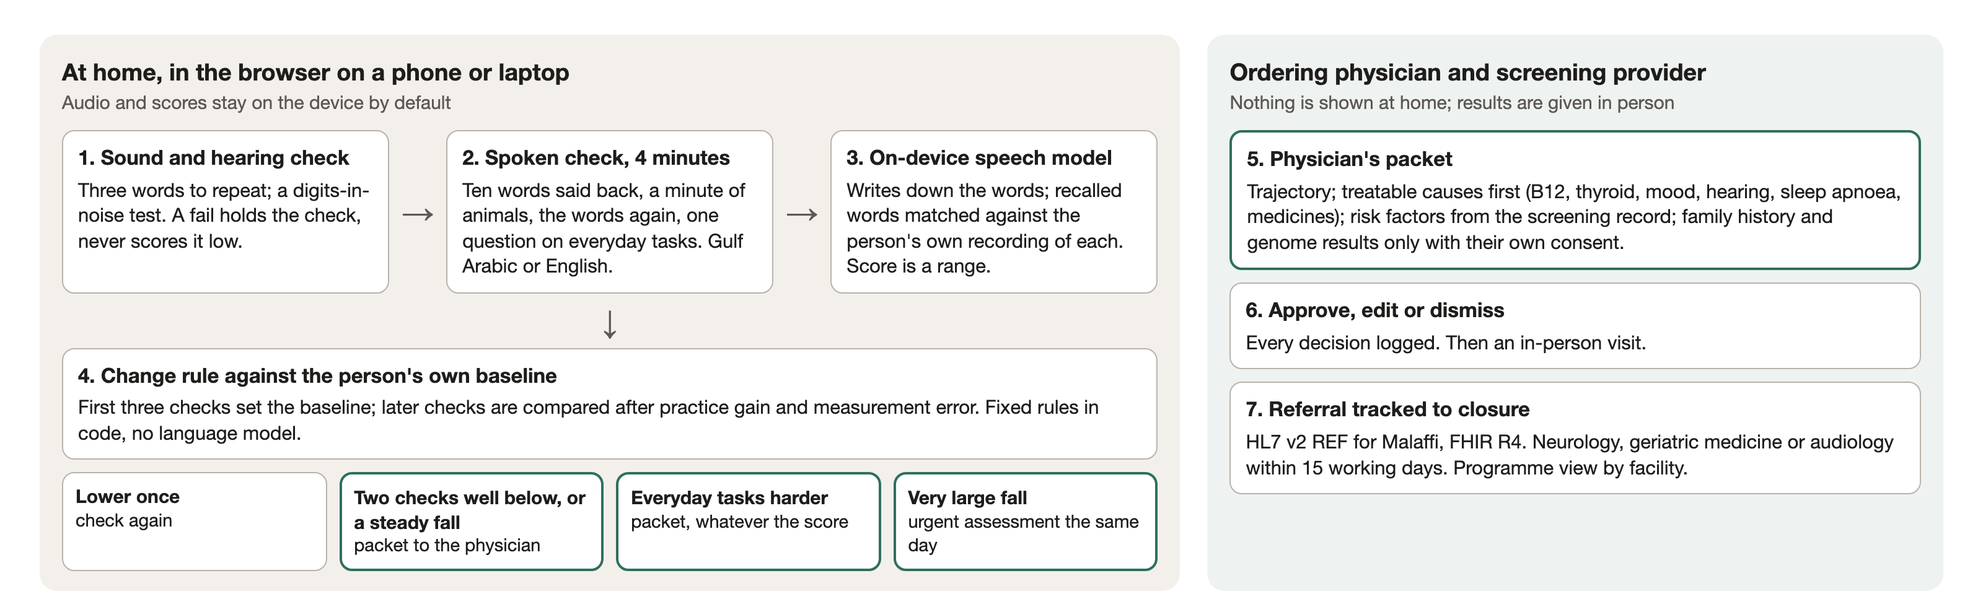
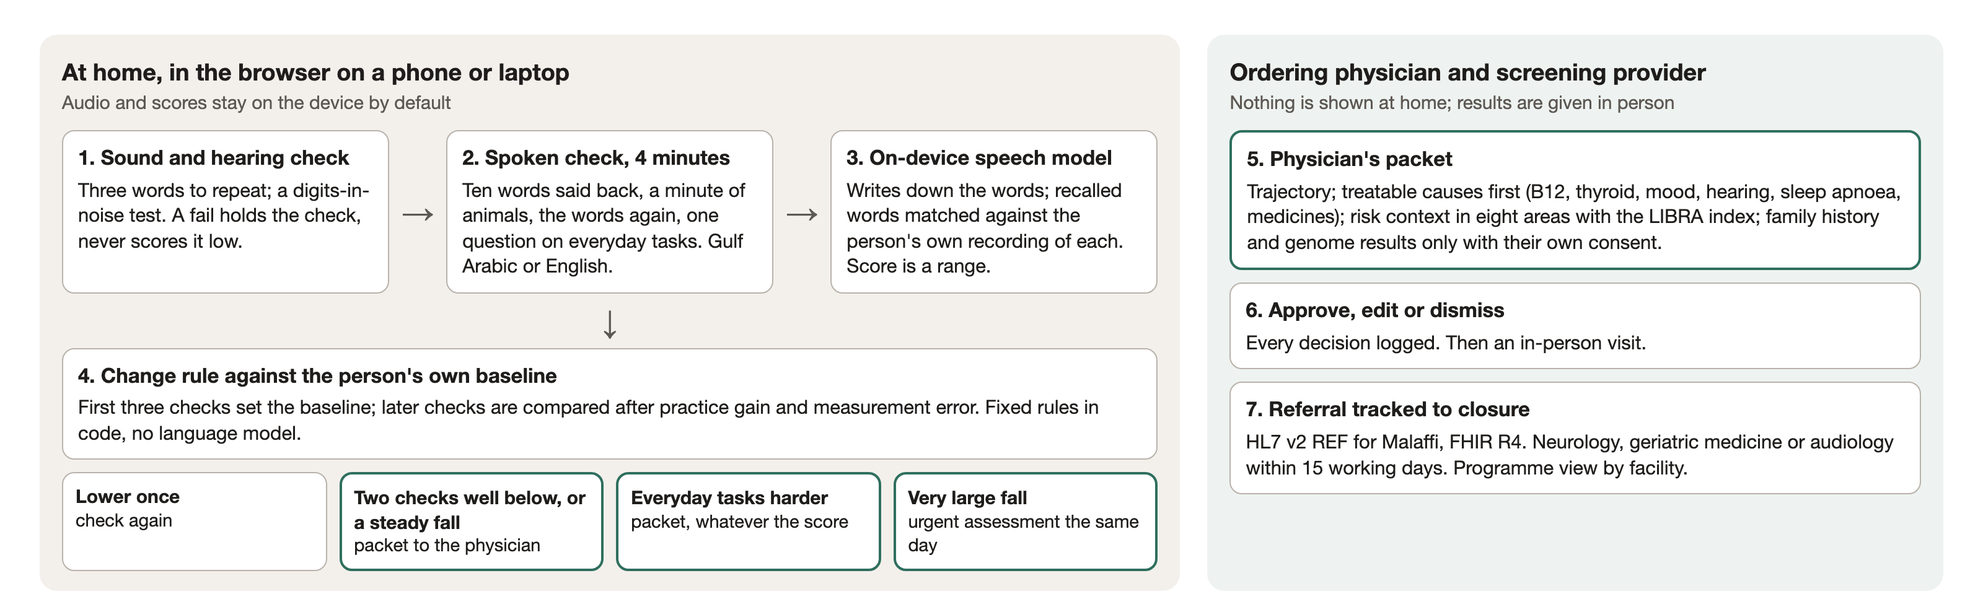
Risk context, LIBRA and UAE hosting in the README, judges' guide, form text and deck; tests for the RiskAssessment and the by-language run

Changed region(s): [[0.625, 0.334, 0.9375, 0.4251]]

diff --git a/src/pages/Home.tsx b/src/pages/Home.tsx
@@ -198,8 +198,8 @@ function Accordion() {
 const ITEMS: { t: string; d: string; gap?: string; to: string; see: string }[] = [
   { t: 'Culturally valid and accessible assessment', d: 'Spoken in Gulf Arabic or English, with nothing to read or type, so schooling and eyesight matter less. A hearing check comes first. A speech model on the device, phones included, writes down the words recalled and the animals named, and the check counts them.', gap: 'The Arabic word lists have no native Gulf reviewer yet.', to: '/try', see: 'Try it with your voice' },
   { t: 'Longitudinal change detection', d: 'Three checks set a personal baseline. Each later check is compared with it after practice and measurement error. A check\'s points are the words said back and recalled later, plus the animals named. About 7.6 below once means check again. Two checks averaging about 9.5 below, or a steady fall, go to a physician. A very large fall goes the same day.', to: '/year', see: 'A year of checks' },
-  { t: 'Integrated risk context', d: "With consent, the physician's packet shows ten of the fourteen Lancet risk factors from the screening record, such as blood pressure, HbA1c, mood and hearing, plus family history and APOE from the Emirati Genome Programme.", gap: 'The record has no sleep data. Each check asks about a bad night, and the packet raises sleep apnoea.', to: '/clinician', see: "The physician's packet" },
-  { t: 'Personalized prevention and timely care', d: "The person's own page lists, in plain words, what their screening visit shows they can work on. The packet puts treatable causes first, then refers to neurology, geriatric medicine or audiology on a 15-working-day clock.", to: '/me', see: 'What the person sees' },
+  { t: 'Integrated risk context', d: "The physician's packet reads the checks together with all eight areas the statement names: physical, metabolic, sleep, mental wellbeing, functional, lifestyle, family history and genome, each with its source and consent. A published index, LIBRA, weighs the modifiable factors from the screening record.", gap: 'Sleep comes from two questions at the first check, not a sleep study. LIBRA has not been checked in Emirati adults.', to: '/clinician', see: "The physician's packet" },
+  { t: 'Personalized prevention and timely care', d: "The person's own page lists, in plain words, what their screening visit shows they can work on, the heaviest-weighted first. The packet puts treatable causes first, then refers to neurology, geriatric medicine or audiology on a 15-working-day clock.", to: '/me', see: 'What the person sees' },
   { t: 'Safety and human oversight', d: 'It flags risk and never diagnoses. Scores are ranges with stated limits. At home the person sees only "Check received. Thank you.", and a physician approves every routine packet before anyone is told.', to: '/story', see: 'One case, both screens' },
   { t: 'Validation and local population performance', d: 'The Evidence page covers all seven measures the statement names, split by language, age and schooling, each marked measured, simulated or not yet.', gap: 'No patients or older Emirati volunteers yet. A pilot measures the rest.', to: '/benchmark', see: 'Evidence' },
 ]

diff --git a/src/pages/Clinician.tsx b/src/pages/Clinician.tsx
@@ -77,7 +77,7 @@ function Clinician({ id }: { id?: string }) {
       </nav>
       <p><strong>{person.name}</strong>, {person.record.sex === 'F' ? 'female' : 'male'}. Clinic MoCA at the screening visit: {person.record.mocaAtVisit}. Home checks since {person.checks[0].date}.</p>
       <div className="card" aria-label="Read together">
-        <p><strong>Read together.</strong> The checks show {finding}. {concernAreas.length} of the 8 risk areas show something to act on{concernAreas.length ? `: ${concernAreas.join(', ')}` : ''}. Modifiable risk (LIBRA): {lib.known} from the record{lib.ranked.length ? `, mostly ${lib.ranked.slice(0, 2).map((f) => f.name.toLowerCase()).join(' and ')}` : ''}. Check first: {contributors.map((c) => c.name[0].toLowerCase() + c.name.slice(1)).join(', ')}. Then decide on a specialist referral.</p>
+        <p><strong>Read together.</strong> The checks show {finding}. {concernAreas.length} of the 8 risk areas need attention{concernAreas.length ? `: ${concernAreas.join(', ')}` : ''}. Modifiable risk (LIBRA): {lib.known} from the record{lib.ranked.length ? `, mostly ${lib.ranked.slice(0, 2).map((f) => f.name.toLowerCase()).join(' and ')}` : ''}. Check first: {contributors.map((c) => c.name[0].toLowerCase() + c.name.slice(1)).join(', ')}. Then decide on a specialist referral.</p>
         <p className="muted">Risk context helps you read the change and plan prevention. It never raises or lowers the flag: the rule reads only the checks.</p>
       </div>
 
@@ -108,7 +108,7 @@ function Clinician({ id }: { id?: string }) {
       <p className="muted">The physical, metabolic, sleep, mental-wellbeing, functional, lifestyle, family-history and genomic areas Statement 8 names. Each row says where it came from and under which consent.</p>
       <div className="scroll" tabIndex={0} role="region" aria-label="Risk context in the eight areas"><table>
         <thead><tr><th>Area</th><th>For this person</th><th>Source</th><th>Shared under</th></tr></thead>
-        <tbody>{areas.map((a) => <tr key={a.area}><td><strong>{a.area}</strong>{a.concern ? <><br /><strong className="status-watch">to act on</strong></> : null}</td><td>{a.access === 'Not shared' ? <span className="muted">{a.finding}</span> : a.finding}</td><td className="muted">{a.source}</td><td className="muted">{a.access}</td></tr>)}</tbody>
+        <tbody>{areas.map((a) => <tr key={a.area}><td><strong>{a.area}</strong>{a.concern ? <><br /><strong className="status-watch">needs attention</strong></> : null}</td><td>{a.access === 'Not shared' ? <span className="muted">{a.finding}</span> : a.finding}</td><td className="muted">{a.source}</td><td className="muted">{a.access}</td></tr>)}</tbody>
       </table></div>
       <p className="muted">{context.map((c) => c.shared ? `${c.name}: ${c.note}` : '').filter(Boolean).join(' ')}</p>
 

diff --git a/src/engine/simulate.test.ts b/src/engine/simulate.test.ts
@@ -1,6 +1,6 @@
 import { describe, expect, it } from 'vitest'
 import { DEFAULT_PARAMS } from './change'
-import { BASE_WORLD, firstFlag, rng, simulatePerson, suddenDrops } from './simulate'
+import { BASE_WORLD, byLanguage, firstFlag, rng, simulatePerson, suddenDrops } from './simulate'
 import { bundle, checkObservation, referralRequest } from './fhir'
 
 const share = (n: number, f: (r: () => number) => boolean) => { const r = rng(7); let k = 0; for (let i = 0; i < n; i++) if (f(r)) k++; return k / n }
@@ -80,5 +80,20 @@ describe('FHIR output', () => {
   it('bundles a referral with its due date', () => {
     const b = bundle([referralRequest('Patient/1', 'Practitioner/9', '2026-08-31', '2026-09-21')]) as Record<string, any>
     expect(b.entry[0].resource.occurrencePeriod.end).toBe('2026-09-21')
+  })
+})
+
+describe('the flag by language, from measured listening', () => {
+  it('sets each listener\'s miss rate so that either one hears the measured share, and loses sensitivity as listening gets worse', () => {
+    const rows = byLanguage(400, [
+      { lang: 'perfect', heard: 1, heardLow: 1, words: 1, speakers: 1 },
+      { lang: 'poor', heard: 0.75, heardLow: 0.64, words: 1, speakers: 1 },
+    ])
+    expect(rows[0].central.miss).toBe(0)
+    expect(rows[1].central.miss).toBe(0.5)
+    expect(rows[1].pessimistic.miss).toBe(0.6)
+    expect(rows[1].central.detected['2']).toBeLessThan(rows[0].central.detected['2'])
+    expect(rows[1].pessimistic.detected['2']).toBeLessThanOrEqual(rows[1].central.detected['2'])
+    expect(rows[0].lang).toBe('perfect')
   })
 })

diff --git a/scripts/workflow-diagram.html b/scripts/workflow-diagram.html
@@ -51,7 +51,7 @@
   <section class="zone clinic">
     <h2>Ordering physician and screening provider</h2>
     <p class="sub">Nothing is shown at home; results are given in person</p>
-    <div class="box go"><b>5. Physician's packet</b>Trajectory; treatable causes first (B12, thyroid, mood, hearing, sleep apnoea, medicines); risk factors from the screening record; family history and genome results only with their own consent.</div>
+    <div class="box go"><b>5. Physician's packet</b>Trajectory; treatable causes first (B12, thyroid, mood, hearing, sleep apnoea, medicines); risk context in eight areas with the LIBRA index; family history and genome results only with their own consent.</div>
     <div class="box"><b>6. Approve, edit or dismiss</b>Every decision logged. Then an in-person visit.</div>
     <div class="box"><b>7. Referral tracked to closure</b>HL7 v2 REF for Malaffi, FHIR R4. Neurology, geriatric medicine or audiology within 15 working days. Programme view by facility.</div>
   </section>

diff --git a/src/engine/libra.test.ts b/src/engine/libra.test.ts
@@ -49,3 +49,18 @@ describe('LIBRA index from the screening record', () => {
     }
   })
 })
+
+describe('LIBRA as a FHIR RiskAssessment', () => {
+  it('states the score, the range and the factors, and no probability', async () => {
+    const { libraAssessment } = await import('./fhir')
+    const ra = libraAssessment('Patient/x', base, '2026-11-20')
+    expect(ra.resourceType).toBe('RiskAssessment')
+    expect(ra.prediction[0].qualitativeRisk.text).toContain('LIBRA 9.1 from 7 of 12 factors')
+    expect(ra.prediction[0].qualitativeRisk.text).toContain('between 3.2 and 11.2')
+    expect(ra.prediction[0].rationale).toMatch(/^Modifiable factors present: depression, hypertension/)
+    expect(JSON.stringify(ra)).not.toMatch(/probability/)
+    const none = libraAssessment('Patient/x', healthy, '2026-11-20')
+    expect(none.prediction[0].rationale).toBe('No modifiable factor in the screening record is present.')
+    expect(none.text.div).toContain('Present, heaviest first: none')
+  })
+})

diff --git a/README.md b/README.md
@@ -26,8 +26,8 @@ The statement lists six things a solution should do. This is where each one is i
 |---|---|---|---|
 | Culturally valid and accessible assessment | Spoken in Gulf Arabic or English, with nothing to read or type, so schooling and eyesight matter less. A hearing check (digits in noise) comes first. The speech model runs on the device, phones included. | [Try it with your voice](https://spoken-memory-check.vercel.app/#/try), [Hearing check](https://spoken-memory-check.vercel.app/#/hearing) | The Arabic word lists have no native Gulf reviewer yet. |
 | Longitudinal change detection | Three checks set a personal baseline. Each later check is compared with it after practice and measurement error. Lower once means check again; two checks well below, or a steady fall, go to a physician; a very large fall goes the same day. | [A year of checks](https://spoken-memory-check.vercel.app/#/year) | The measurement error comes from published studies, not our own retest. |
-| Integrated risk context | With consent, the physician's packet shows ten of the fourteen Lancet risk factors from the screening record (blood pressure, HbA1c, LDL, mood, hearing, vision, activity, smoking, BMI, schooling), plus family history and APOE from the Emirati Genome Programme, each behind its own consent. | [The physician's packet](https://spoken-memory-check.vercel.app/#/clinician) | The record has no sleep data. Each check asks "I slept badly or feel unwell today", and the packet raises sleep apnoea. |
-| Personalized prevention and timely care | The person's own page lists, in plain words, what their screening visit shows they can work on. The packet puts treatable causes first (B12, thyroid, mood, hearing, sleep apnoea, medicines), then refers to neurology, geriatric medicine or audiology on a 15-working-day clock. | [What the person sees](https://spoken-memory-check.vercel.app/#/me) | The prevention wording awaits the public health centre's approval. |
+| Integrated risk context | The physician's packet reads the checks together with all eight areas the statement names: physical, metabolic, sleep (two questions at the first check), mental wellbeing, functional (the everyday-tasks answers), lifestyle, family history and the Emirati Genome Programme result, each row with its source and consent. The published LIBRA index weighs the modifiable factors from the screening record, with the factors the record lacks shown as a range, and goes out as a FHIR RiskAssessment. | [The physician's packet](https://spoken-memory-check.vercel.app/#/clinician) | Sleep is two questions, not a sleep study. LIBRA has not been checked in Emirati adults. Context never changes the flag. |
+| Personalized prevention and timely care | The person's own page lists, in plain words, what their screening visit shows they can work on, heaviest LIBRA weight first. The packet puts treatable causes first (B12, thyroid, mood, hearing, sleep apnoea, medicines), then refers to neurology, geriatric medicine or audiology on a 15-working-day clock. | [What the person sees](https://spoken-memory-check.vercel.app/#/me) | The prevention wording awaits the public health centre's approval. |
 | Safety and human oversight | It flags risk and never diagnoses. Scores are ranges with stated limits, no score is shown at home, and a physician approves every routine packet before anyone is told. | [One case, both screens](https://spoken-memory-check.vercel.app/#/story) | No physician has reviewed the packet yet. |
 | Validation and local population performance | The Evidence page covers all seven measures the statement names (completion, retest reliability, sensitivity, specificity, meaningful change, false-referral burden, time to assessment), split by language, age and schooling, each marked measured, simulated or not yet. | [Evidence](https://spoken-memory-check.vercel.app/#/benchmark) | No patients or older Emirati volunteers yet. A pilot measures the rest. |
 
@@ -38,11 +38,12 @@ The statement lists six things a solution should do. This is where each one is i
 | Arabic words heard right | On the device: 93% of 720 real single words from 30 adults, with the speaker's own voice as the answer key (82% for the on-device model alone; 40% before tuning). Lab test of MBZUAI and Inception's Jais-ASR: 97.1% alone, 99.2% with own voice, as a proposed optional UAE-hosted listener. Read words from adult volunteers of unstated age. `docs/TEMPLATE_BENCH.md`, `docs/JAIS_ASR_BENCH.md` |
 | Older speakers | Measured on public data, not yet on volunteers: on Saudi TV speech labelled by age and dialect (SADA, 83 older and 200 adult Gulf clips), word error was 31% for older against 33% for adult Gulf speakers with Jais-ASR, and 68% against 75% with the on-device model. Neither listener heard older Gulf voices worse. `docs/OLDER_SPEAKERS_BENCH.md` |
 | Where it fits | The memory step of Thiqa's "Comprehensive hearing and dementia screening" packages 52-45 and 52-46 (IFHAS 3.0, Addendum 06), which name no memory tool. `docs/COMMERCIAL.md` |
-| Hand-off | FHIR R4 with 0 errors from the official HL7 validator 7.0.5; referral as the HL7 v2 REF message with SNOMED specialty that Malaffi asks for (Circular 2026/144). `docs/FHIR_VALIDATION.md` |
+| Hand-off | FHIR R4 with 0 errors from the official HL7 validator 7.0.5; referral as the HL7 v2 REF message with SNOMED specialty that Malaffi asks for (Circular 2026/144); the LIBRA index goes out as a FHIR RiskAssessment. `docs/FHIR_VALIDATION.md` |
+| Hosting in the UAE | The demo runs on Vercel, and no health data reaches its server. `deploy/uae/` serves the whole site and the speech-token function from one Node process with no packages, for a server in a UAE region. The end-to-end check passed 5 of 5 against it on 20 Nov. `deploy/uae/README.md` |
 | Fairness | Real US survey data: a fixed animal cutoff flags 48% of healthy adults with under 9 years of school against 16% of graduates. `analysis/`. In the Gulf, the usual MoCA cut-off classed 69.3% of 606 older adults in Dubai and Sharjah as impaired (Issa et al. 2026). Simulated: among stable simulated members who start in the lowest fifth, one cut-off for everyone falsely flags 69.5% in a year and this rule 1.8%. |
 | Validation | The statement's seven measures (completion, retest, sensitivity, specificity, meaningful change, false referrals, time to assessment) by language, age and schooling, each marked measured, simulated or not yet, on the Evidence page. |
 | Flag rule | Simulated: two routes (two checks in a row well below baseline, and a steady slow fall). 5.2% false alarms a year; flagged within the year: 52% of simulated members losing 1 point a check, 97% losing 2. `scripts/benchmark.ts` |
-| Quality | 242 automated tests run every line of the decision code (672 of 672) and catch 92% of 1,026 deliberate bugs put into the rules (mutation testing). After each deploy a headless browser runs the live site end to end: every screen, the consent lock, both recorded checks scored on the device and checked word by word against what the voice said, and a packet to a closed referral (5 of 5 steps passed); a second run feeds a computer voice in as the microphone and passes in English and Arabic. 0 accessibility violations in 48 axe checks. `scripts/live-check.ts`, `docs/ACCESSIBILITY.md` |
+| Quality | 257 automated tests run every line of the decision code (718 of 718) and catch 92% of 1,026 deliberate bugs put into the rules (mutation testing). After each deploy a headless browser runs the live site end to end: every screen, the consent lock, both recorded checks scored on the device and checked word by word against what the voice said, and a packet to a closed referral (5 of 5 steps passed); a second run feeds a computer voice in as the microphone and passes in English and Arabic. 0 accessibility violations in 48 axe checks. `scripts/live-check.ts`, `docs/ACCESSIBILITY.md` |
 | Safety | Speech is scored on the device by default; no audio leaves it unless the person turns on the browser's recogniser. The person is never shown a score. Family history and genome results reach the physician only with their own consent, as context the rule never reads. A physician approves every routine packet before the person is contacted, and results are given in person; only a very large fall sends the person straight to urgent care. A missed or unheard check is never counted as low. The full check stays locked until the person agrees. Every person-facing screen reads at grade 4 or under (English). No language model makes any decision. `docs/SAFETY_CASE.md`, `docs/COMPLIANCE.md` |
 | Who pays | Thiqa's screening packages 52-45 and 52-46. Modelled running cost: about AED 26 per eligible member a year at 40% uptake. No partner has agreed yet. `docs/COMMERCIAL.md` |
 | Rules | Compliance map, intended use, risk register. `docs/COMPLIANCE.md`, `docs/INTENDED_USE.md`, `docs/RISK_REGISTER.md` |
@@ -54,7 +55,7 @@ To run it yourself: `npm install`, then `npm run dev`. To redeploy: `scripts/dep
 - **Listeners that stay on the device.** By default an open speech model running on the device scores the speech, and word recall is also matched against the person's own voice from when they said each word back; no audio leaves the device. The browser's recogniser, which may send audio to the browser's maker, joins only if the person turns it on. A word heard by two is confirmed, so every score is a range.
 - **Compared with yourself.** The first three checks set a baseline. A later check counts as low only after the expected practice gain and the measurement error are taken into account, and a flag needs two checks in a row that together sit well below the baseline, or a steady fall.
 - **Three other routes.** A reported change in everyday tasks goes to the physician whatever the score. A failed sound check holds the check instead of scoring it low. A very large fall sends the person to urgent assessment.
-- **A physician decides.** The ordering physician approves, edits or dismisses a packet: the trajectory, treatable contributors first, and the risk factors the screening record already holds. After approval the app only invites the person to a visit.
+- **A physician decides.** The ordering physician approves, edits or dismisses a packet: the trajectory, treatable contributors first, risk context in the eight areas Statement 8 names, and the LIBRA modifiable-risk index from the screening record. After approval the app only invites the person to a visit.
 - **Nobody lost.** The referral is tracked to closure against a 15-working-day target, and a programme view counts every member by facility.
 - **Hearing first.** A three-minute digits-in-noise hearing check, answered by tapping, runs before the memory check. A fail becomes an audiology referral, and a weekly one-tap question tracks whether the hearing aid is worn.
 - **People check the machine.** One recorded check in ten is scored again by a person who cannot see the machine's result, and agreement is tracked by language.
@@ -66,10 +67,11 @@ To run it yourself: `npm install`, then `npm run dev`. To redeploy: `scripts/dep
 - Real data: in a public US health survey (NHANES 2011 to 2014, 3,110 adults aged 60 and over), a fixed cutoff of 14 animals flags 48% of adults with under 9 years of school who report no memory problem, against 16% of graduates. `analysis/`
 - Simulation of the flag: 5.2% false alarms a year in stable simulated members (4.9% with the previous rule, 3.4% with the first rule); flagged within the year: 52% of members losing one point a check (45% with the previous rule) and 97% losing two; at an assumed 2% of members in real decline, about 70 packets per 1,000 members a year, 19 of them real. Same settings throughout. `npx tsx scripts/benchmark.ts`
 - Real recordings: on 720 real single Arabic words from 30 adults, the first on-device model heard 40%; an Arabic-tuned model with near-miss matching heard 82%; adding each speaker's own voice as the answer key raised it to 93% (speaker interval 91 to 95%), with 0.8% wrong words credited. English: the first model alone heard 62% of 387 single words; on the 113 English words used for own-voice matching, the model alone heard 58% and with own-voice matching 85%. Public adult datasets, read words, not older or Gulf speakers. `docs/HUMAN_SPEECH_BENCH.md`, `docs/TEMPLATE_BENCH.md`
+- Listening sets a ceiling: the 97% assumes every word is heard. With each listener's miss rate set from the real single-word recordings, the simulation catches 64% in Arabic and 30% in English at two points a check. That is why the pilot measures listening on volunteers first. `npx tsx scripts/by-language.ts`, `docs/LIMITS.md`
 - Smaller Arabic model: the decoder's word table stored at 4 bits cuts the Arabic download from 299 MB to 165 MB, served from this site, with no loss on the 720 real clips (83% against 82%). `docs/HUMAN_SPEECH_BENCH.md`
 - Older and Gulf speakers, public data: on Saudi TV speech labelled by age and dialect (SADA), word error for older Gulf speakers against adult Gulf speakers was 31% vs 33% for Jais-ASR and 68% vs 75% for the on-device model. Neither heard older Gulf voices worse; Gulf speech was harder than other dialects for both. TV sentences, not a memory check. `docs/OLDER_SPEAKERS_BENCH.md`
 - Tested code: mutation testing put 1,026 small deliberate bugs into the decision rules one at a time, and the tests caught 940 (92%); most of the rest change only wording. `npx stryker run`
-- 242 automated tests: `npm test`. Cases listed in `docs/TESTED_CASES.md`. They run all 672 lines of the decision code and 95% of its branches; the rules that decide what happens to a person are covered on every branch. `npx tsx scripts/coverage-summary.ts`
+- 257 automated tests: `npm test`. Cases listed in `docs/TESTED_CASES.md`. They run all 718 lines of the decision code and 95% of its branches; the rules that decide what happens to a person are covered on every branch. `npx tsx scripts/coverage-summary.ts`
 - Live end to end: after each deploy, `scripts/live-check.ts` opens the live site in headless Chromium, opens every screen, checks the full check stays locked until the person agrees, scores the recorded check in English and Arabic on the device, checks every credited and missed word against what the voice said, and takes one packet to a closed referral with the HL7 and FHIR files. A second run (`scripts/mic-check.ts`) starts Chromium with a computer voice as its microphone and takes "Try it with your voice" through the sound check and 20 seconds of animals: 8 animals credited in English and 8 in Arabic, each one the voice said; with silence as the microphone the sound check fails and nothing is scored. No person has used the microphone path yet.
 - Plain language: every screen the person reads and every spoken prompt measures at Flesch-Kincaid grade 4 or under in English (guidance for patient material asks for 6 to 8). Arabic is not graded. `npx tsx scripts/reading-grade.ts`
 

diff --git a/docs/DECK_CONTENT.md b/docs/DECK_CONTENT.md
@@ -14,7 +14,7 @@ Spoken memory check: a four-minute memory check by voice at home, in Gulf Arabic
 {capability}
 
 ## 4. Architecture or workflow
-Everything left of the physician runs in the person's browser; audio and scores stay on the device by default. Fixed rules in code make every decision: no language model.
+Everything left of the physician runs in the person's browser; audio and scores stay on the device by default. Fixed rules in code make every decision: no language model. The packet reads the checks with risk context in Statement 8's eight areas and the LIBRA modifiable-risk index; context never changes the flag.
 
 ## 5. Target users and intended outcome
 - Members of Abu Dhabi's adult screening programme aged 50 to 75. Thiqa's hearing and dementia screening packages cover 52-45 (ages 50 to 64, every three years) and 52-46 (65 to 75, every year), and name no memory tool.
@@ -41,9 +41,9 @@ Real recordings, public data:
 
 Real survey data: in NHANES 2011 to 2014 (3,110 adults aged 60 and over), a fixed cutoff of 14 animals flags 48% of healthy adults with under 9 years of school against 16% of graduates. In the Gulf, the usual MoCA cut-off classed 69.3% of 606 older adults in Dubai and Sharjah as impaired (Issa et al. 2026). A personal baseline avoids this.
 
-Simulated: 5.2% of stable simulated members get a false packet a year; 52% of those losing 1 point a check and 97% losing 2 are flagged within the year.
+Simulated: 5.2% of stable simulated members get a false packet a year; 52% of those losing 1 point a check and 97% losing 2 are flagged within the year if every word is heard (64% in Arabic, 30% in English at 2 points with miss rates from the real recordings).
 
-Our own tests: FHIR R4 with 0 errors from the HL7 validator 7.0.5; 242 automated tests; 92% of 1,026 deliberate bugs caught; the live site walked end to end after each deploy; a computer voice fed in as the microphone credited 8 of 12 animals said in English and in Arabic, and silence failed the sound check.
+Our own tests: FHIR R4 with 0 errors from the HL7 validator 7.0.5; 257 automated tests; 92% of 1,026 deliberate bugs caught; the live site walked end to end after each deploy; a computer voice fed in as the microphone credited 8 of 12 animals said in English and in Arabic, and silence failed the sound check.
 
 ## 8. Data sources and legal right to use them
 - NHANES 2011 to 2014: survey, de-identified, US CDC; public domain; no personal data.
@@ -77,7 +77,7 @@ Code: {repo}. All people shown are synthetic and labelled.
 
 ## 12. Path to pilot and scale
 - Stakeholders: ADPHC (runs the screening programme), Thiqa (funds packages 52-45 and 52-46), one screening provider, its ordering physicians, neurology, geriatric medicine and audiology.
-- Integration: referrals as HL7 v2 REF messages with SNOMED specialty for Malaffi (Circular 2026/144); FHIR R4 for the record.
+- Integration: referrals as HL7 v2 REF messages with SNOMED specialty for Malaffi (Circular 2026/144); FHIR R4 for the record, the LIBRA index as a RiskAssessment. Self-hosts on UAE servers from one Node process.
 - Regulatory: research use under ethics approval and DoH data rules first; registration as medical-device software after the pilot.
 - Timeline assumption: a 12-month randomised pilot at one screening provider, 250 members per arm, with stop rules (docs/PILOT.md).
 - Sustainability: modelled cost about AED 26 per eligible member a year at 40% uptake, inside packages Thiqa already funds. No partner has agreed yet.
@@ -90,11 +90,11 @@ All code was written during the challenge (first commit 10 November 2026); nothi
 
 ## 15. Additional slide
 The six criteria, and where each is shown:
-- Health impact and clinical relevance: lasting change found between screening visits, treatable causes first (home page; physician's packet).
+- Health impact and clinical relevance: lasting change found between screening visits, read with risk context in eight areas and the LIBRA index, treatable causes first (physician's packet).
 - Technical depth and architecture: on-device speech, own-voice matching, a change rule against a personal baseline (How it works; slide 4).
 - Working solution and demonstration quality: the live demo, no login, end to end to a closed referral (slide 11).
 - Responsible AI, safety and data governance: no score at home, consent in parts, physician approval, nothing leaves the device by default (slide 9).
-- Scalability and deployment readiness: HL7 v2 for Malaffi, FHIR R4, phones and laptops, both speech models served from our own site.
+- Scalability and deployment readiness: HL7 v2 for Malaffi, FHIR R4, phones and laptops, both speech models served from our own site, a self-hosted build for UAE servers.
 - Commercial viability and path to pilot: Thiqa packages 52-45 and 52-46, about AED 26 per member a year, a 12-month pilot design (slide 12).
 
 Not yet: no patients or older Emirati volunteers; the Arabic word lists have no native Gulf reviewer; no physician has reviewed the packet; retest error comes from published studies.

diff --git a/docs/JUDGES.md b/docs/JUDGES.md
@@ -4,11 +4,11 @@ Live demo: open the link, no sign-up. Three buttons on the first screen. Everyth
 
 | Criterion | Where to look | What is real |
 |---|---|---|
-| Health impact and clinical relevance | Home page; "A year of checks" (six cases, every route); the physician's packet; `docs/LIMITS.md` | Our analysis of a public US survey: a fixed animal-naming cutoff flags 48% of healthy adults with under 9 years of school against 16% of graduates |
-| Technical depth and architecture | "How it works, and what is real"; `src/engine/` (matcher, range scoring, rule); `src/speech/` (two listeners, one on the device) | 242 automated tests, listed in `docs/TESTED_CASES.md`; they run every line of the decision code (672 of 672) and catch 92% of 1,026 deliberate bugs put into the decision rules (mutation testing, Evidence page). Both listeners measured on older and Gulf speakers in public Saudi TV speech: no age penalty (`docs/OLDER_SPEAKERS_BENCH.md`) |
-| Working solution and demonstration quality | "Try it with your voice" (30 seconds); "Play a recorded check" (no microphone); the full four-minute check | Runs in Chrome, Edge and Safari on a laptop. After each deploy a headless browser runs the live site end to end (every screen, consent lock, both recorded checks scored on the device, packet to closed referral): 5 of 5 steps passed, `scripts/live-check.ts` |
+| Health impact and clinical relevance | Home page; "A year of checks" (six cases, every route); the physician's packet ("Read together", risk context in the statement's eight areas, the LIBRA index); `docs/LIMITS.md` | Our analysis of a public US survey: a fixed animal-naming cutoff flags 48% of healthy adults with under 9 years of school against 16% of graduates |
+| Technical depth and architecture | "How it works, and what is real"; `src/engine/` (matcher, range scoring, rule); `src/speech/` (two listeners, one on the device) | 257 automated tests, listed in `docs/TESTED_CASES.md`; they run every line of the decision code (718 of 718) and catch 92% of 1,026 deliberate bugs put into the decision rules (mutation testing, Evidence page). Both listeners measured on older and Gulf speakers in public Saudi TV speech: no age penalty (`docs/OLDER_SPEAKERS_BENCH.md`) |
+| Working solution and demonstration quality | "Try it with your voice" (30 seconds); "Play a recorded check" (no microphone); the full four-minute check; the packet's referral clock counts working days between the dates you enter | Runs in Chrome, Edge and Safari on a laptop. After each deploy a headless browser runs the live site end to end (every screen, consent lock, both recorded checks scored on the device, packet to closed referral): 5 of 5 steps passed, `scripts/live-check.ts` |
 | Responsible AI, safety and data governance | No language model anywhere; the rule shown in full on the packet; `docs/SAFETY_CASE.md`; `docs/DATA_SOURCES.md`; consent in six parts | Deterministic rule; 96% of deliberate bugs in it caught by the tests, and every branch of it run by them. Every screen the person reads measures at reading grade 4 or under in English (`scripts/reading-grade.ts`); Arabic not graded |
-| Scalability and deployment readiness | Programme view; FHIR export; on-device listener; `docs/PILOT.md` | FHIR R4 passes the official HL7 validator with 0 errors; the referral also goes out as the HL7 v2 REF message Malaffi asks for. Scoring runs on the person's device, so server load does not grow with the number of members |
+| Scalability and deployment readiness | Programme view; FHIR export; on-device listener; `deploy/uae/` (the site and its one function from a single Node process for a UAE region); `docs/PILOT.md` | FHIR R4, including the LIBRA RiskAssessment, passes the official HL7 validator with 0 errors (13 files); the end-to-end check passed 5 of 5 against the self-hosted copy; the referral also goes out as the HL7 v2 REF message Malaffi asks for. Scoring runs on the person's device, so server load does not grow with the number of members |
 | Commercial viability and path to pilot | Home page, "Who pays": Thiqa packages 52-45 and 52-46, a cost model with an uptake slider (about AED 26 per eligible member a year at 40% uptake), billing routes and the first organisations we would ask; `docs/COMMERCIAL.md`, `docs/PILOT.md` | Costs come from published Azure prices plus stated assumptions; no partner has agreed yet |
 
 What is simulated: the six people, the programme year, and the flag benchmark. What is still to come: native Arabic review, physician review, volunteer measurements.

diff --git a/docs/SUBMISSION_TEXT.md b/docs/SUBMISSION_TEXT.md
@@ -23,19 +23,19 @@ Software
 <!-- summary:start -->
 A four-minute memory check by voice at home for adults in Abu Dhabi's screening programme. Their physician hears only about lasting change.
 
-Statement 8, item by item:
+Statement 8:
 1. Culturally valid and accessible: spoken in Gulf Arabic or English, nothing to read or type. Hearing is checked first.
 2. Cognitive and functional change: three checks set a personal baseline. One low check means a repeat; two in a row averaging about 9.5 points below it, a steady fall, or a yes to the everyday-tasks question send a packet; a very large fall goes the same day.
-3. Integrated risk context: the packet shows 10 of the 14 Lancet risk factors from the screening record, and, each under its own consent, family history and Emirati Genome Programme results.
-4. Prevention and timely care: the person sees plain steps from their own record. The packet puts treatable causes first (B12, thyroid, mood, hearing, sleep apnoea, medicines), then a specialist referral on a 15-working-day clock.
-5. Safety and oversight: no score at home, a physician approves every routine packet, and no language model decides anything.
+3. Integrated risk context: the packet reads the checks with all eight named areas (sleep too), weighs modifiable risk with the LIBRA index, and adds family history and Emirati Genome Programme results only under their own consent.
+4. Prevention and timely care: the person gets plain steps from their own record. The packet lists treatable causes first (B12, thyroid, mood, hearing, sleep apnoea, medicines), then a specialist referral on a 15-working-day clock.
+5. Safety and oversight: no score at home, a physician approves every routine packet, and no language model decides.
 6. Validation: the statement's seven measures, by language, age and schooling, each marked measured, simulated or not yet.
 
-Measured on recordings of 30 adults: with each person's own voice as the answer key, the on-device model heard 93% of 720 Arabic words. Simulated: 5.2% false packets a year in stable people, 97% of those losing 2 points a check flagged.
+Measured: with each speaker's own voice as the answer key, the on-device model heard 93% of 720 Arabic words from 30 adults. Simulated: 5.2% false packets a year in stable people; 97% of those losing 2 points a check flagged if every word is heard.
 
-Abu Dhabi fit: HL7 v2 referrals for Malaffi, FHIR R4 with 0 validator errors, Thiqa packages 52-45 and 52-46 as payer, modelled at AED 26 per member a year.
+Abu Dhabi fit: HL7 v2 referrals for Malaffi, FHIR R4 with 0 validator errors, UAE self-hosting, Thiqa packages 52-45 and 52-46 as payer, modelled at AED 26 a member a year.
 
-Pilot plan: after ethics approval, 12 months at one screening provider, 250 per arm randomised to usual care or home checks. Measures: baseline completion and specialist visits within 15 working days; stop rules for dismissed packets and distress.
+Pilot plan: after ethics approval, 12 months at one screening provider, 250 per arm randomised to usual care or home checks. Measures: baseline completion and specialist visits within 15 working days.
 
 Not yet: no partner, no patients or older Emirati volunteers, no native review of Arabic lists, retest error borrowed from studies.
 <!-- summary:end -->
@@ -49,7 +49,7 @@ The spoken check runs in the browser in English and Gulf Arabic, with an on-devi
 
 The change rule uses a personal baseline, two routes to a packet and an urgent route, with a simulated benchmark against simpler rules.
 
-The physician's packet shows treatable contributors, the 2024 Lancet risk factors from the screening record, family history and genome results only with consent, a decision log and a 15-working-day referral clock. Referrals export as HL7 v2 and FHIR R4.
+The physician's packet shows treatable contributors, risk context in the statement's eight areas with the LIBRA index, family history and genome results only with consent, a decision log and a 15-working-day referral clock. Referrals export as HL7 v2 and FHIR R4. The site also runs self-hosted from one Node process.
 
 There is also a programme view, blind re-scoring of one check in ten and a cost model.
 

diff --git a/docs/TESTED_CASES.md b/docs/TESTED_CASES.md
@@ -66,3 +66,20 @@ Run them with `npm test`. Each line is one automated test.
 - Items are split into heard by both, the person only and the machine only; agreement is both over either.
 - Two empty sides count as full agreement.
 - A running figure is kept per language.
+
+## Risk context, LIBRA and sleep
+- always returns the eight areas, in the statement order
+- keeps family history and genome out unless each was shared
+- reads sleep from the first home check and marks snoring or short sleep
+- carries the everyday-tasks answers from the checks into the functional area
+- never changes what the rule decides
+- puts sleep apnoea on the check-first list when snoring is reported, even with normal BMI and blood pressure
+- gives the person a sleep step for snoring or short sleep, and none otherwise
+- orders the person's steps: hearing first, then by LIBRA weight
+- has twelve factors whose weights span the published range of -5.9 to +12.7
+- scores 0 from the record when no known factor is present, with the unknowns as a range
+- adds each present factor once, and ranks them heaviest first
+- uses the thresholds at their edges
+- never changes what the change rule decides
+- states the score, the range and the factors, and no probability
+- sets each listener's miss rate so that either one hears the measured share, and loses sensitivity as listening gets worse
